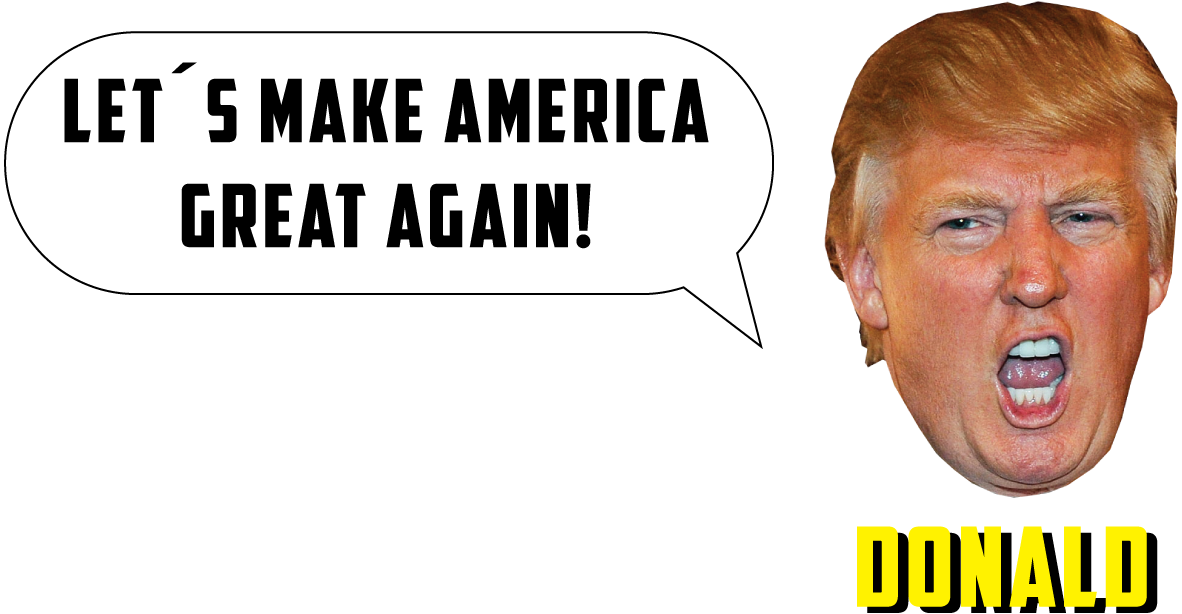
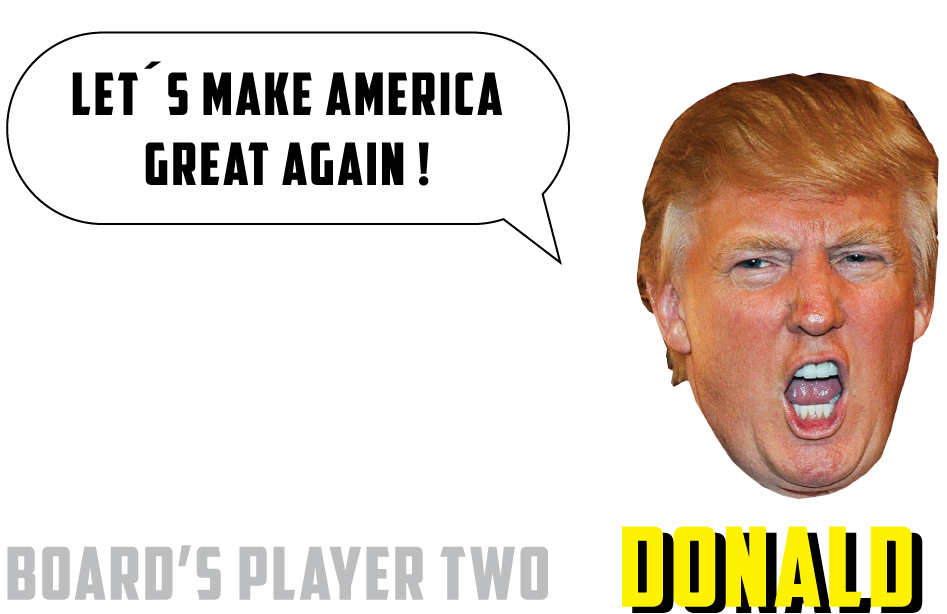
imagene de las instrucciones, imagenes de los personages, botones ocultos

diff --git a/game/src/components/Views/GameBoard.js b/game/src/components/Views/GameBoard.js
@@ -29,7 +29,7 @@ class GameBoard extends Component {
     this.renderBoardOne = this.renderBoardOne.bind(this);
     this.handlePiecesPlayerOne = this.handlePiecesPlayerOne.bind(this);
     this.openModal = this.openModal.bind(this);
-    this.afterOpenModal = this.afterOpenModal.bind(this);
+    // this.afterOpenModal = this.afterOpenModal.bind(this);
     this.closeModal = this.closeModal.bind(this);
     this.handleOpenModal = this.handleOpenModal.bind(this);
     this.handleCloseModal = this.handleCloseModal.bind(this);
@@ -72,11 +72,11 @@ class GameBoard extends Component {
     this.setState({ showModal2: false });
   }
 
-  // Modal Instrucciones
-  afterOpenModal() {
-    // references are now sync'd and can be accessed.
-    this.subtitle.style.color = "#f00";
-  }
+  // // Modal Instrucciones
+  // afterOpenModal() {
+  //   // references are now sync'd and can be accessed.
+  //   this.subtitle.style.color = "#f00";
+  // }
 
   closeModal() {
     this.setState({ modalIsOpen: false });
@@ -282,7 +282,7 @@ class GameBoard extends Component {
                 <Col xs="4">
                   <img
                     className="faces-image"
-                    src={require("./img/GRETA-BLACK.png")}
+                    src={require("./img/GRETA-WHITE.png")}
                     alt="greta"
                   />
                   {/* <p> Payer One | My Board </p> */}
@@ -311,16 +311,21 @@ class GameBoard extends Component {
                       </button>
 
                       <Modal
+                        className="modal-instructions"
                         isOpen={this.state.modalIsOpen}
                         onAfterOpen={this.afterOpenModal}
                         onRequestClose={this.closeModal}
                       >
-                        <p
+                        {/* <p
                           className="text-1"
                           ref={subtitle => (this.subtitle = subtitle)}
-                        >
-                          {" "}
-                          <big>
+                        > */}
+                        <img
+                          className="instructions"
+                          src={require("../Views/img/INSTRUCTIONS.png")}
+                          alt="logo-room"
+                        />
+                        {/* <big>
                             <b>
                               <h3 className="dialog-title">
                                 Instrucciones: “Battle Of Power” ( Spanish)
@@ -361,7 +366,7 @@ class GameBoard extends Component {
                           <br />
                           10-Suerte y a salvar el mundo!
                           <br />
-                        </p>
+                        </p> */}
                         <button className="btn-close" onClick={this.closeModal}>
                           GO TO PLAY!
                         </button>
@@ -419,7 +424,8 @@ class GameBoard extends Component {
                     </div>
                   </Col>
                 </Col>
-                <Col xs="4">
+                {/* DONALD BOARD */}
+                <Col xs="4" className="active-table">
                   <img
                     className="faces-image"
                     src={require("./img/DONALD-BLACK.png")}
@@ -453,7 +459,6 @@ class GameBoard extends Component {
                       src={require("./img/DONALD-WHITE.png")}
                       alt="trump"
                     />
-                    {/* <p>Player Two | My Board</p> */}
 
                     <Col xs="11">
                       <div className="board-white">
@@ -514,13 +519,12 @@ class GameBoard extends Component {
                       </Link>
                     </ReactModal>
                   </Col>
-                  <Col xs="4">
+                  <Col xs="4" className="active-table">
                     <img
                       className="faces-image"
-                      src={require("./img/GRETA-WHITE.png")}
+                      src={require("./img/GRETA-BLACK.png")}
                       alt="greta"
                     />
-                    {/* <p> Payer Two | Board Enemy </p> */}
 
                     <Col xs="11">
                       <div className="board-black">

diff --git a/game/src/components/Views/GameBoard.css b/game/src/components/Views/GameBoard.css
@@ -1,11 +1,12 @@
 .game {
+  font-family: "Lato", sans-serif;
   padding-top: 1rem;
   display: flex;
   flex-wrap: wrap;
   flex-direction: row;
   margin: 0 auto;
   height: 200vh;
-  width: 100%;
+  width: 100vw;
   line-height: 0.5;
   background: linear-gradient(90deg, black 50%, white 50%);
 }
@@ -28,7 +29,7 @@
   vertical-align: middle;
   opacity: 1 !important;
   position: absolute;
-  top: 0;
+  top: 2rem;
   left: 51.5%;
   margin-right: -49.5%;
   transform: translate(-50%, -50%);
@@ -241,10 +242,15 @@ p.text-1 {
   background-color: rgba(8, 8, 8, 0.829);
 }
 h3 {
-  font-family: Lato;
+  font-family: "Lato", sans-serif;
   color: white;
   size: 80px;
   text-align: center;
+}
+
+.active-table:hover {
+  filter: brightness(0.7);
+  /* filter: grayscale(0.5); */
 }
 
 .btn-hidden {
@@ -294,4 +300,21 @@ h3 {
   transition: color 0.1s ease-in-out, background-color 0.1s ease-in-out,
     border-color 0.1s ease-in-out, box-shadow 0.1s ease-in-out;
   margin: 30px 450px;
+}
+
+.instructions {
+  height: 90%;
+  width: 90%;
+}
+
+.modal-instructions {
+  text-align: center;
+  overflow: hidden;
+  position: fixed;
+  outline: none;
+  /* top: 20px; */
+  /* left: 40px;
+  right: 20px; */
+  /* bottom: 20px; */
+  background-color: rgba(255, 255, 255);
 }

diff --git a/game/src/index.css b/game/src/index.css
@@ -1,8 +1,6 @@
 body {
   margin: 0;
-  font-family: -apple-system, BlinkMacSystemFont, "Segoe UI", "Roboto", "Oxygen",
-    "Ubuntu", "Cantarell", "Fira Sans", "Droid Sans", "Helvetica Neue",
-    sans-serif;
+  font-family: "Lato", sans-serif;
   -webkit-font-smoothing: antialiased;
   -moz-osx-font-smoothing: grayscale;
   overflow: hidden;

diff --git a/game/src/components/Buttons/Square.css b/game/src/components/Buttons/Square.css
@@ -14,6 +14,7 @@
   display: inline-block;
   transition: 0.5s;
   font-size: 16px;
+  transition: 0.4s;
 }
 .btn-square1:focus {
   outline: none;
